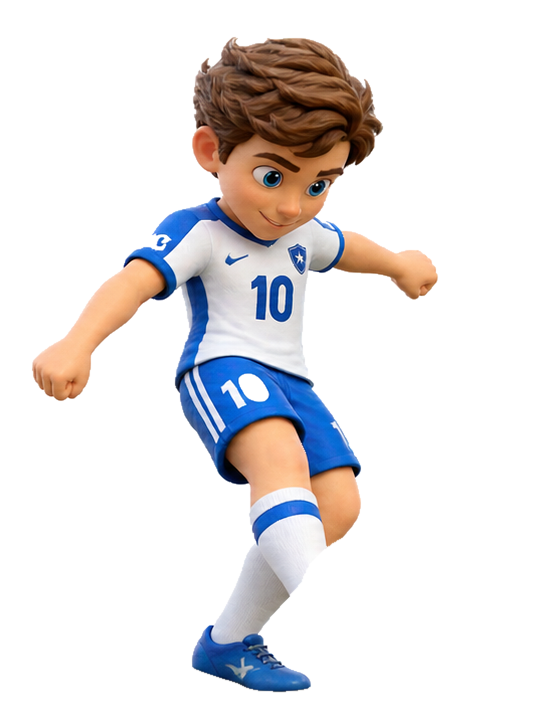
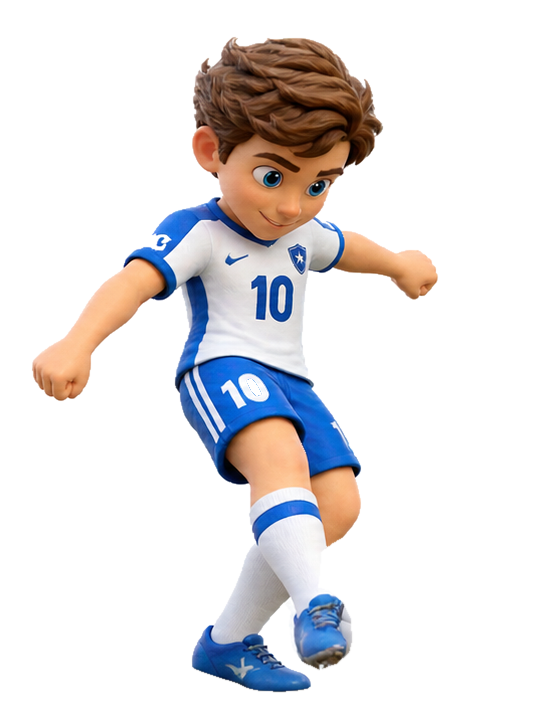
Use revised kick alpha masks and align the restored boot

Changed region(s): [[0.5304, 0.7901, 0.6483, 0.942]]

diff --git a/index.html b/index.html
@@ -57,7 +57,7 @@ let sceneVersion=0, shotTarget=null, retryTimer;
 
 // Toe of the extended boot in the original 1197 × 1314 player.png.
 const boot={x:846/1197,y:1164/1314};
-const kickArt={width:543,height:724,contact:{x:341,y:645}};
+const kickArt={width:543,height:724,contact:{x:345,y:645}};
 // The sole of the planted boot in each PNG's coordinate system.
 const kickFrames=[
   {x:194,y:688},
